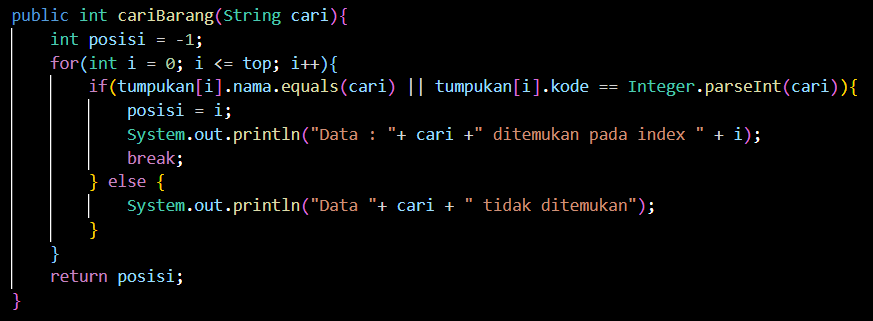
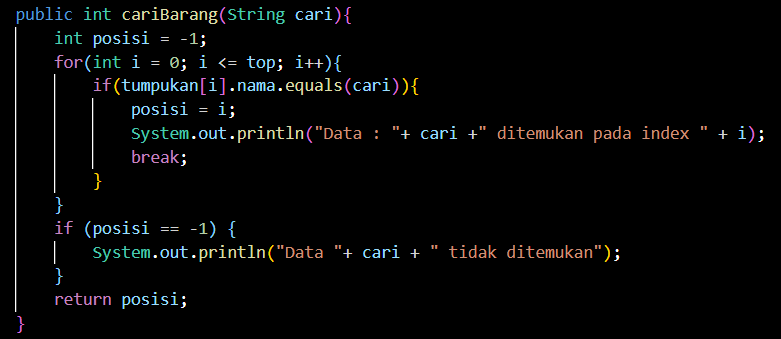
laporan

diff --git a/Pertemuan8/Gudang08.java b/Pertemuan8/Gudang08.java
@@ -89,13 +89,14 @@ public class Gudang08 {
     public int cariBarang(String cari){
         int posisi = -1;
         for(int i = 0; i <= top; i++){
-            if(tumpukan[i].nama.equals(cari) || tumpukan[i].kode == Integer.parseInt(cari)){
+            if(tumpukan[i].nama.equals(cari)){
                 posisi = i;
                 System.out.println("Data : "+ cari +" ditemukan pada index " + i);
                 break;
-            } else {
-                System.out.println("Data "+ cari + " tidak ditemukan");
             }
+        }
+        if (posisi == -1) {
+            System.out.println("Data "+ cari + " tidak ditemukan");
         }
         return posisi;
     }

diff --git a/Pertemuan8/Utama08.java b/Pertemuan8/Utama08.java
@@ -52,7 +52,7 @@ public class Utama08 {
                     break;
 
                 case 6:
-                    System.out.println("Masukkan nama/kode barang yang akan dicari");
+                    System.out.println("Masukkan nama barang yang akan dicari");
                     String cari = scanner.nextLine();
                     gudang.cariBarang(cari);
                     break;
